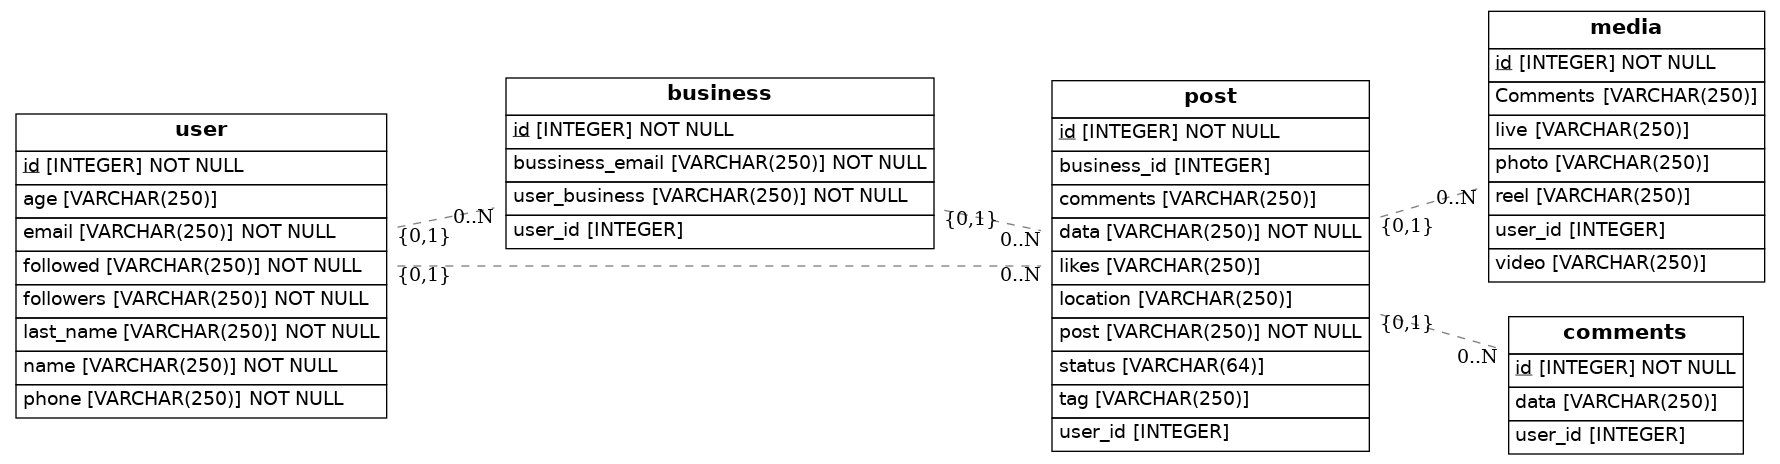
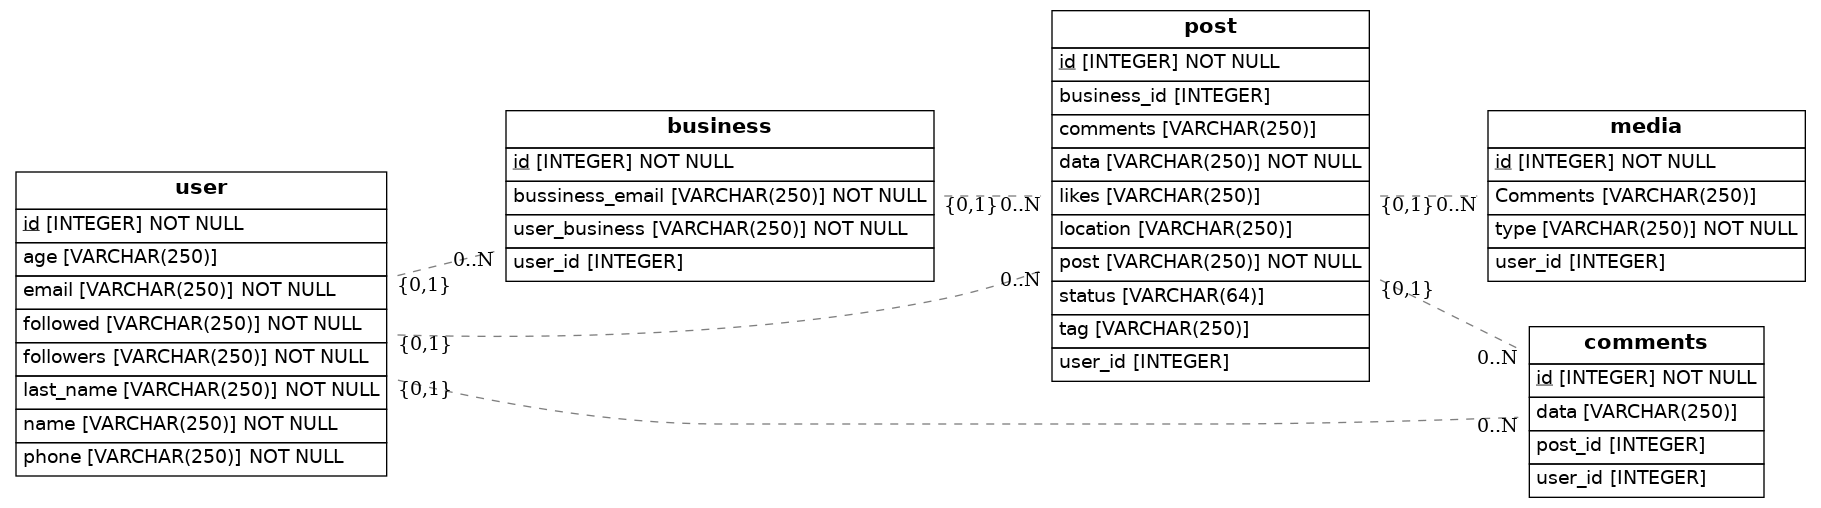
First commit

Changed region(s): [[0.0, 0.0, 1.0, 0.9957]]

diff --git a/src/models.py b/src/models.py
@@ -50,10 +50,7 @@ class Media(Base):
     # Here we define columns for the table address.
     # Notice that each column is also a normal Python instance attribute.
     id = Column(Integer, primary_key=True, unique=True)
-    photo = Column(String(250))
-    video = Column(String(250))
-    reel = Column(String(250))
-    live = Column(String(250))
+    type = Column(String(250), nullable=False)
     Comments = Column(String(250))
     user_id = Column(Integer, ForeignKey('post.id'))
     user = relationship(Post)
@@ -64,9 +61,8 @@ class Comments(Base):
     # Notice that each column is also a normal Python instance attribute.
     id = Column(Integer, primary_key=True, unique=True)
     data = Column(String(250))
-    user_id = Column(Integer, ForeignKey('comments.id'))
-    user_id = Column(Integer, ForeignKey('post.id'))
-    user = relationship(Post)
+    user_id = Column(Integer, ForeignKey('user.id'))
+    post_id = Column(Integer, ForeignKey('post.id'))
 
 
     def to_dict(self):
